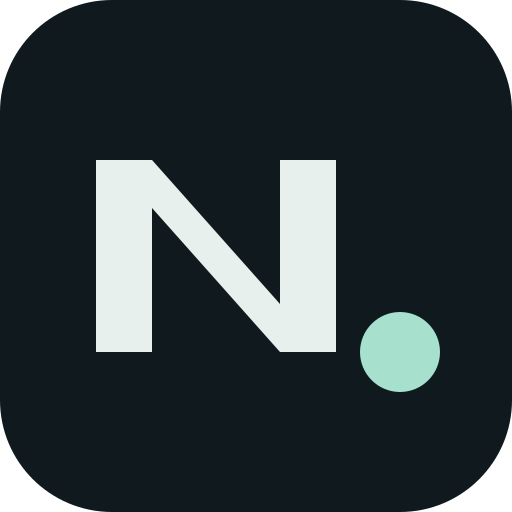
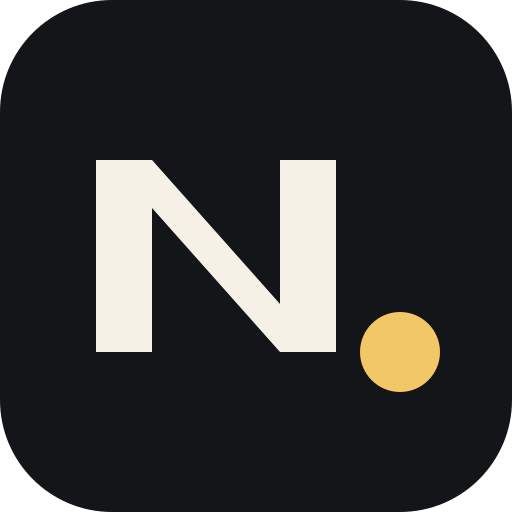
Switch portfolio palette to yellow

Changed region(s): [[0.6875, 0.5938, 0.875, 0.7812]]

diff --git a/src/styles/global.css b/src/styles/global.css
@@ -1,33 +1,35 @@
 @import 'tailwindcss';
 :root {
   color-scheme: dark;
-  --bg: #10191d;
-  --surface: #172328;
-  --surface-2: #1c2a2f;
-  --ink: #edf2ef;
-  --muted: #a7b8b8;
-  --dim: #7c9293;
-  --line: #304145;
-  --accent: #abe2ce;
-  --accent-strong: #c4f3df;
-  --accent-ink: #10231d;
-  --soft: #1a3330;
-  --header: rgba(16, 25, 29, 0.9);
+  --bg: #131518;
+  --surface: #1d2022;
+  --surface-2: #272a2b;
+  --ink: #f5f1e7;
+  --muted: #c1b9a9;
+  --dim: #a8a296;
+  --line: #3d4140;
+  --accent: #f2c866;
+  --accent-fill: #f2c866;
+  --accent-fill-hover: #ffdc82;
+  --accent-ink: #251c0b;
+  --soft: #30291c;
+  --header: rgba(19, 21, 24, 0.92);
 }
 :root[data-theme='light'] {
   color-scheme: light;
-  --bg: #f5f7f3;
-  --surface: #fff;
-  --surface-2: #eaf0ec;
-  --ink: #142025;
-  --muted: #465d60;
-  --dim: #5b7474;
-  --line: #cbd8d3;
-  --accent: #0f6954;
-  --accent-strong: #0b5946;
-  --accent-ink: #fff;
-  --soft: #e0eee6;
-  --header: rgba(245, 247, 243, 0.9);
+  --bg: #faf8f1;
+  --surface: #fffdf8;
+  --surface-2: #f1ede4;
+  --ink: #29251d;
+  --muted: #625b50;
+  --dim: #6c655b;
+  --line: #d9d1c0;
+  --accent: #835b00;
+  --accent-fill: #f0bd44;
+  --accent-fill-hover: #e5b02e;
+  --accent-ink: #251c0b;
+  --soft: #f6ecd6;
+  --header: rgba(250, 248, 241, 0.92);
 }
 * {
   box-sizing: border-box;
@@ -280,11 +282,11 @@ p {
   white-space: nowrap;
 }
 .button-primary {
-  background: var(--accent);
+  background: var(--accent-fill);
   color: var(--accent-ink);
 }
 .button-primary:hover {
-  background: var(--accent-strong);
+  background: var(--accent-fill-hover);
   color: var(--accent-ink);
   transform: translateY(-2px);
 }
@@ -501,7 +503,7 @@ p {
   fill: none;
 }
 .trace-muted {
-  stroke: #577777;
+  stroke: #8e887c;
   stroke-width: 2;
   fill: none;
 }
@@ -660,7 +662,7 @@ p {
   border-color: var(--accent);
 }
 .project-card-featured {
-  border-color: #4a7770;
+  border-color: var(--accent);
 }
 .project-visual {
   height: 185px;
